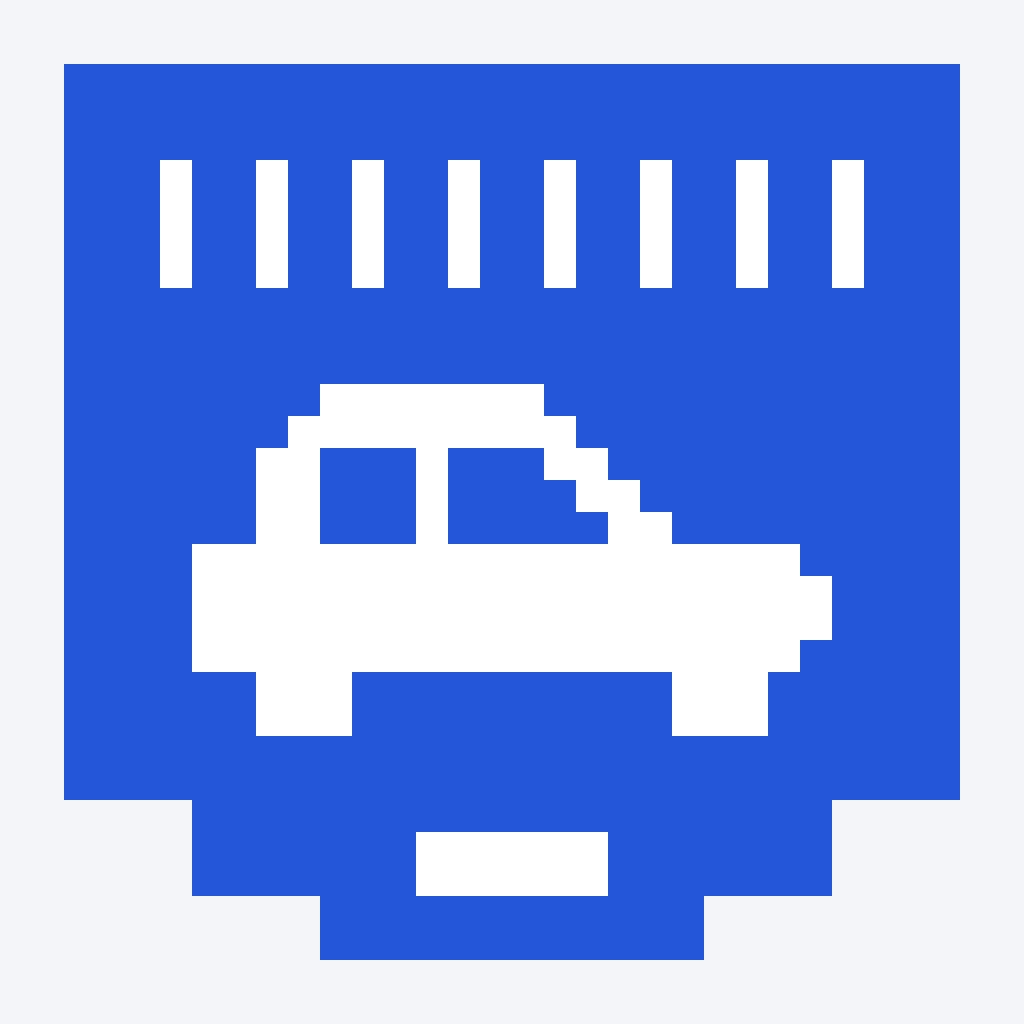
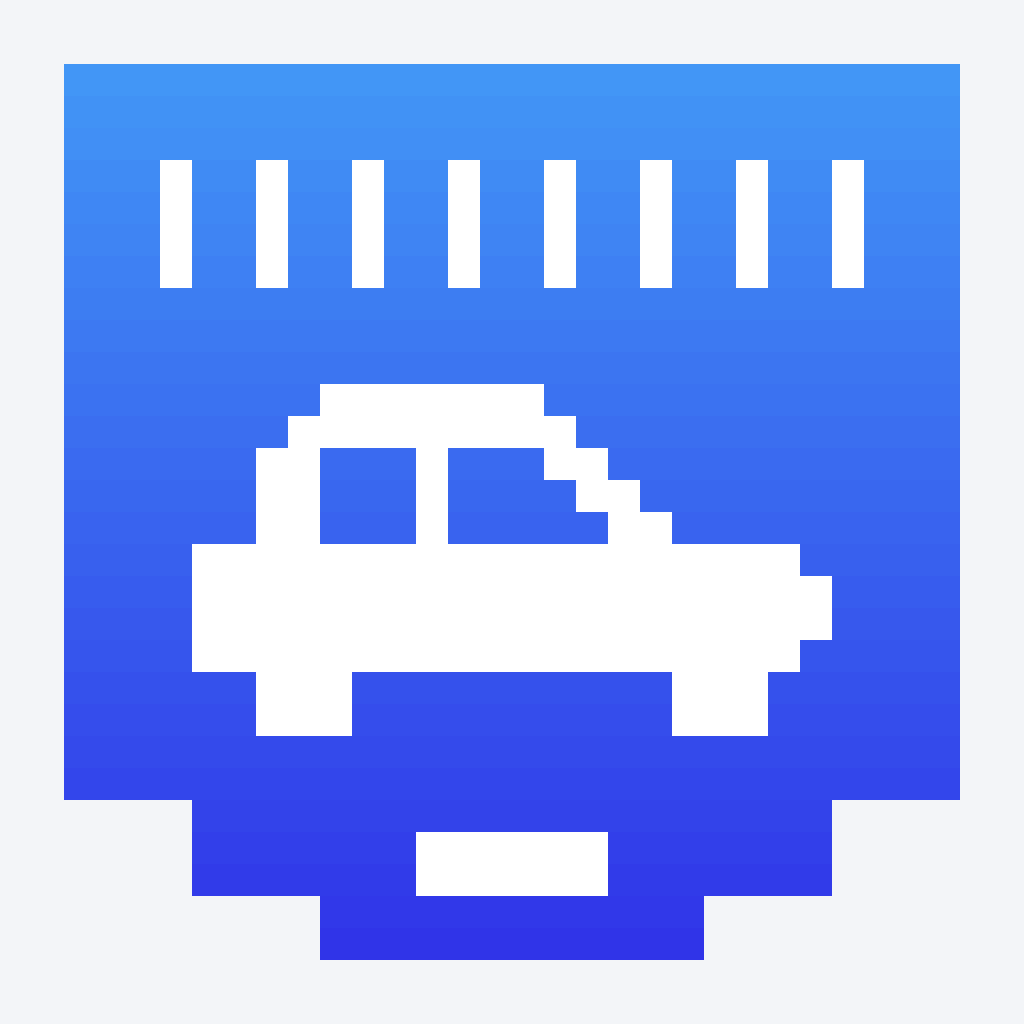
feat(brand): 所有彩色图标统一使用渐变主标志
按各尺寸的网格逐行着色，让页眉、托盘和打包资源使用同一品牌配色。用同一套着色规则生成 PNG 和交付用 SVG，保留几何源和单色模板。logo.svg 改由程序生成并逐字节比对，SVG 资源在 .gitattributes 中固定为 LF，避免 Windows 检出时转成 CRLF。

Changed region(s): [[0.0625, 0.0625, 0.9375, 0.4062], [0.1875, 0.8438, 0.8125, 0.9375]]

diff --git a/internal/brand/brand.go b/internal/brand/brand.go
@@ -18,12 +18,9 @@ const Accent = "#2356d8"
 
 var plateColor = color.NRGBA{R: 243, G: 245, B: 248, A: 255}
 
-var accentColor = color.NRGBA{R: 0x23, G: 0x56, B: 0xd8, A: 255}
-
-// The macOS mark gradient brackets the accent: azure above, indigo below.
 var (
-	macAccentTop    = color.NRGBA{R: 66, G: 150, B: 246, A: 255}
-	macAccentBottom = color.NRGBA{R: 48, G: 52, B: 232, A: 255}
+	accentTop    = color.NRGBA{R: 0x42, G: 0x96, B: 0xf6, A: 255}
+	accentBottom = color.NRGBA{R: 0x30, G: 0x34, B: 0xe8, A: 255}
 )
 
 // macPlateBottom is the accent mixed 25% into white.
@@ -87,8 +84,18 @@ func artworkFor(size int) artwork {
 	}
 }
 
-// SVG returns a detached copy of the 32-unit master; compact grids are separate assets.
-func SVG() []byte { return []byte(markSVG) }
+// SVG exports the color mark on the 32-unit grid.
+func SVG() []byte {
+	var data bytes.Buffer
+	data.WriteString("<svg xmlns=\"http://www.w3.org/2000/svg\" width=\"512\" height=\"512\" viewBox=\"0 0 32 32\" shape-rendering=\"crispEdges\">\n")
+	data.WriteString("  <title>Remote ENET — RJ45 Car, 32-unit optical master</title>\n")
+	master.renderRects(false, func(r rectangle, fill color.NRGBA) {
+		fmt.Fprintf(&data, "  <rect x=\"%d\" y=\"%d\" width=\"%d\" height=\"%d\" fill=\"#%02x%02x%02x\"/>\n",
+			r.X, r.Y, r.Width, r.Height, fill.R, fill.G, fill.B)
+	})
+	data.WriteString("</svg>\n")
+	return data.Bytes()
+}
 
 // PNG accepts multiples of 16 up to 1024, plus 20.
 // Template uses black alpha with transparent cutouts and ignores plate.
@@ -103,8 +110,7 @@ func PNG(size int, plate, template bool) []byte {
 }
 
 // MacPNG is the macOS app icon: Apple's 824 body (inset 100 on a 1024 canvas)
-// as a light gradient plate, with the mark at 5/8 of the canvas and its accent
-// shaded row by row (see macAccent). The corners
+// as a light gradient plate, with the mark at 5/8 of the canvas. The corners
 // are superellipse arcs (extent 270, exponent 3.5) approximating Apple's
 // continuous 185 corner; a circular 185 arc reads visibly rounder in the Dock.
 // A bundled .icns gets no system mask, so the rounded body and its margin must
@@ -138,25 +144,15 @@ func MacPNG(size int) []byte {
 	}
 	origin, unit := image.Pt((size-mark)/2, (size-mark)/2), mark/art.grid
 	paint(im, origin, art, unit, false, false)
-	top, bottom := art.accentRows()
-	for y := origin.Y + top*unit; y < origin.Y+bottom*unit; y++ {
-		shade := macAccent(art, (y-origin.Y)/unit)
-		for x := origin.X; x < origin.X+mark; x++ {
-			if im.NRGBAAt(x, y) == accentColor {
-				im.SetNRGBA(x, y, shade)
-			}
-		}
-	}
 	return encode(im)
 }
 
-// macAccent shades one grid row of the mark from azure at the top to indigo at
+// accentForRow shades one grid row of the mark from azure at the top to indigo at
 // the bottom. Whole rows keep each cell flat.
-func macAccent(art artwork, row int) color.NRGBA {
-	top, bottom := art.accentRows()
-	t := float64(row-top) / float64(bottom-1-top)
+func accentForRow(row, top, bottom int) color.NRGBA {
+	t := float64(row-top) / float64(max(1, bottom-1-top))
 	mix := func(a, b uint8) uint8 { return uint8(math.Round(float64(a) + t*(float64(b)-float64(a)))) }
-	return color.NRGBA{R: mix(macAccentTop.R, macAccentBottom.R), G: mix(macAccentTop.G, macAccentBottom.G), B: mix(macAccentTop.B, macAccentBottom.B), A: 255}
+	return color.NRGBA{R: mix(accentTop.R, accentBottom.R), G: mix(accentTop.G, accentBottom.G), B: mix(accentTop.B, accentBottom.B), A: 255}
 }
 
 // accentRows returns the half-open grid row range covered by accent cells.
@@ -184,7 +180,24 @@ func paint(im *image.NRGBA, origin image.Point, art artwork, unit int, plate, te
 		body := image.Rect(0, 0, art.grid*unit, art.grid*unit).Add(origin)
 		draw.Draw(im, body, image.NewUniform(plateColor), image.Point{}, draw.Src)
 	}
-	for _, r := range art.boxes {
+	art.renderRects(template, func(r rectangle, fill color.NRGBA) {
+		box := image.Rect((r.X-art.start)*unit, (r.Y-art.start)*unit, (r.X+r.Width-art.start)*unit, (r.Y+r.Height-art.start)*unit).Add(origin)
+		draw.Draw(im, box, image.NewUniform(fill), image.Point{}, draw.Src)
+	})
+}
+
+func (a artwork) renderRects(template bool, emit func(rectangle, color.NRGBA)) {
+	top, bottom := a.accentRows()
+	for _, r := range a.boxes {
+		if !template && r.Fill == Accent {
+			band := r
+			band.Height = 1
+			for y := r.Y; y < r.Y+r.Height; y++ {
+				band.Y = y
+				emit(band, accentForRow(y-a.start, top, bottom))
+			}
+			continue
+		}
 		if len(r.Fill) != 7 || r.Fill[0] != '#' {
 			panic("brand: invalid source color")
 		}
@@ -200,8 +213,7 @@ func paint(im *image.NRGBA, origin image.Point, art artwork, unit int, plate, te
 				fill = color.NRGBA{A: 255}
 			}
 		}
-		box := image.Rect((r.X-art.start)*unit, (r.Y-art.start)*unit, (r.X+r.Width-art.start)*unit, (r.Y+r.Height-art.start)*unit).Add(origin)
-		draw.Draw(im, box, image.NewUniform(fill), image.Point{}, draw.Src)
+		emit(r, fill)
 	}
 }
 

diff --git a/internal/brand/brand_test.go b/internal/brand/brand_test.go
@@ -4,6 +4,7 @@ import (
 	"bytes"
 	"embed"
 	"encoding/binary"
+	"image"
 	"image/color"
 	"image/png"
 	"testing"
@@ -13,7 +14,7 @@ import (
 var exported embed.FS
 
 func TestPixelGridAndTemplateCutouts(t *testing.T) {
-	for _, size := range []int{16, 20, 32, 48, 128} {
+	for _, size := range []int{16, 20, 32, 48, 128, 256} {
 		plain, err := png.Decode(bytes.NewReader(PNG(size, false, false)))
 		if err != nil {
 			t.Fatal(err)
@@ -22,32 +23,67 @@ func TestPixelGridAndTemplateCutouts(t *testing.T) {
 		if err != nil {
 			t.Fatal(err)
 		}
+		plated, err := png.Decode(bytes.NewReader(PNG(size, true, false)))
+		if err != nil {
+			t.Fatal(err)
+		}
 		if plain.Bounds().Dx() != size || plain.Bounds().Dy() != size {
 			t.Fatal("invalid dimensions")
 		}
+		art := artworkFor(size)
+		unit := size / art.grid
+		top, bottom := art.accentRows()
+		var firstAccent, lastAccent color.NRGBA
 		for y := range size {
+			row := y / unit
 			for x := range size {
 				pixel := color.NRGBAModel.Convert(plain.At(x, y)).(color.NRGBA)
-				r, g, b, templateAlpha := mono.At(x, y).RGBA()
-				if pixel.A != 0 && pixel.A != 255 {
-					t.Fatal("pixel artwork has a semitransparent halo")
-				}
-				var expectedAlpha uint32
+				var expectedTemplate color.NRGBA
 				switch pixel {
-				case color.NRGBA{R: 35, G: 86, B: 216, A: 255}:
-					expectedAlpha = 65535
 				case color.NRGBA{R: 255, G: 255, B: 255, A: 255}, color.NRGBA{}:
 				default:
-					t.Fatalf("unexpected pixel at %dpx (%d,%d): %v", size, x, y, pixel)
+					if row < top || row >= bottom || pixel != accentForRow(row, top, bottom) {
+						t.Fatalf("unexpected accent at %dpx (%d,%d): %v", size, x, y, pixel)
+					}
+					expectedTemplate.A = 255
+					if row == top {
+						firstAccent = pixel
+					}
+					if row == bottom-1 {
+						lastAccent = pixel
+					}
 				}
-				if templateAlpha != expectedAlpha || r != 0 || g != 0 || b != 0 {
-					t.Fatalf("template lost a cutout at %dpx (%d,%d)", size, x, y)
+				if got := color.NRGBAModel.Convert(mono.At(x, y)).(color.NRGBA); got != expectedTemplate {
+					t.Fatalf("template lost a cutout or has color at %dpx (%d,%d): %v", size, x, y, got)
+				}
+				if pixel == (color.NRGBA{}) {
+					pixel = plateColor
+				}
+				if got := color.NRGBAModel.Convert(plated.At(x, y)).(color.NRGBA); got != pixel {
+					t.Fatalf("incorrect plate or foreground at %dpx (%d,%d): %v", size, x, y, got)
 				}
 			}
+		}
+		if firstAccent != (color.NRGBA{R: 0x42, G: 0x96, B: 0xf6, A: 255}) || lastAccent != (color.NRGBA{R: 0x30, G: 0x34, B: 0xe8, A: 255}) {
+			t.Fatalf("%dpx: accent endpoints are %v and %v", size, firstAccent, lastAccent)
 		}
 		if !bytes.Equal(PNG(size, true, true), PNG(size, false, true)) {
 			t.Fatal("template must not gain an opaque plate")
 		}
+	}
+}
+
+func TestSVGMatchesColorPNG(t *testing.T) {
+	art := parseSVG(string(SVG()))
+	for _, rect := range art.boxes {
+		if rect.Fill == Accent {
+			t.Fatal("exported SVG still uses the geometry source accent")
+		}
+	}
+	raster := image.NewNRGBA(image.Rect(0, 0, master.grid, master.grid))
+	paint(raster, image.Point{}, art, 1, false, false)
+	if !bytes.Equal(encode(raster), PNG(master.grid, false, false)) {
+		t.Fatal("SVG rectangles differ from the color PNG grid")
 	}
 }
 
@@ -150,13 +186,9 @@ func TestMacRoundedBody(t *testing.T) {
 		if top.B != 255 || !(bottom.R < top.R && bottom.G < top.G && bottom.B < top.B) {
 			t.Fatalf("%dpx: plate must fade from white at the top to a tint at the bottom: %v -> %v", size, top, bottom)
 		}
-		side, base, art := size*5/8, PNG(20, false, false), compact20
+		side, base := size*5/8, PNG(20, false, false)
 		if side%32 == 0 {
-			base, art = PNG(side, false, false), master
-		}
-		first, last := art.accentRows()
-		if high, low := macAccent(art, first), macAccent(art, last-1); high != macAccentTop || low != macAccentBottom {
-			t.Fatalf("%dpx: mark gradient %v -> %v does not span its endpoints", size, high, low)
+			base = PNG(side, false, false)
 		}
 		mark, err := png.Decode(bytes.NewReader(base))
 		if err != nil {
@@ -166,11 +198,8 @@ func TestMacRoundedBody(t *testing.T) {
 		for y := range side {
 			for x := range side {
 				want := color.NRGBAModel.Convert(mark.At(x/unit, y/unit)).(color.NRGBA)
-				switch want {
-				case color.NRGBA{}:
+				if want == (color.NRGBA{}) {
 					want = macPlate(size, y+offset)
-				case accentColor:
-					want = macAccent(art, y*art.grid/side)
 				}
 				if got := at(x+offset, y+offset); got != want {
 					t.Fatalf("%dpx: centred mark differs at (%d,%d)", size, x, y)
